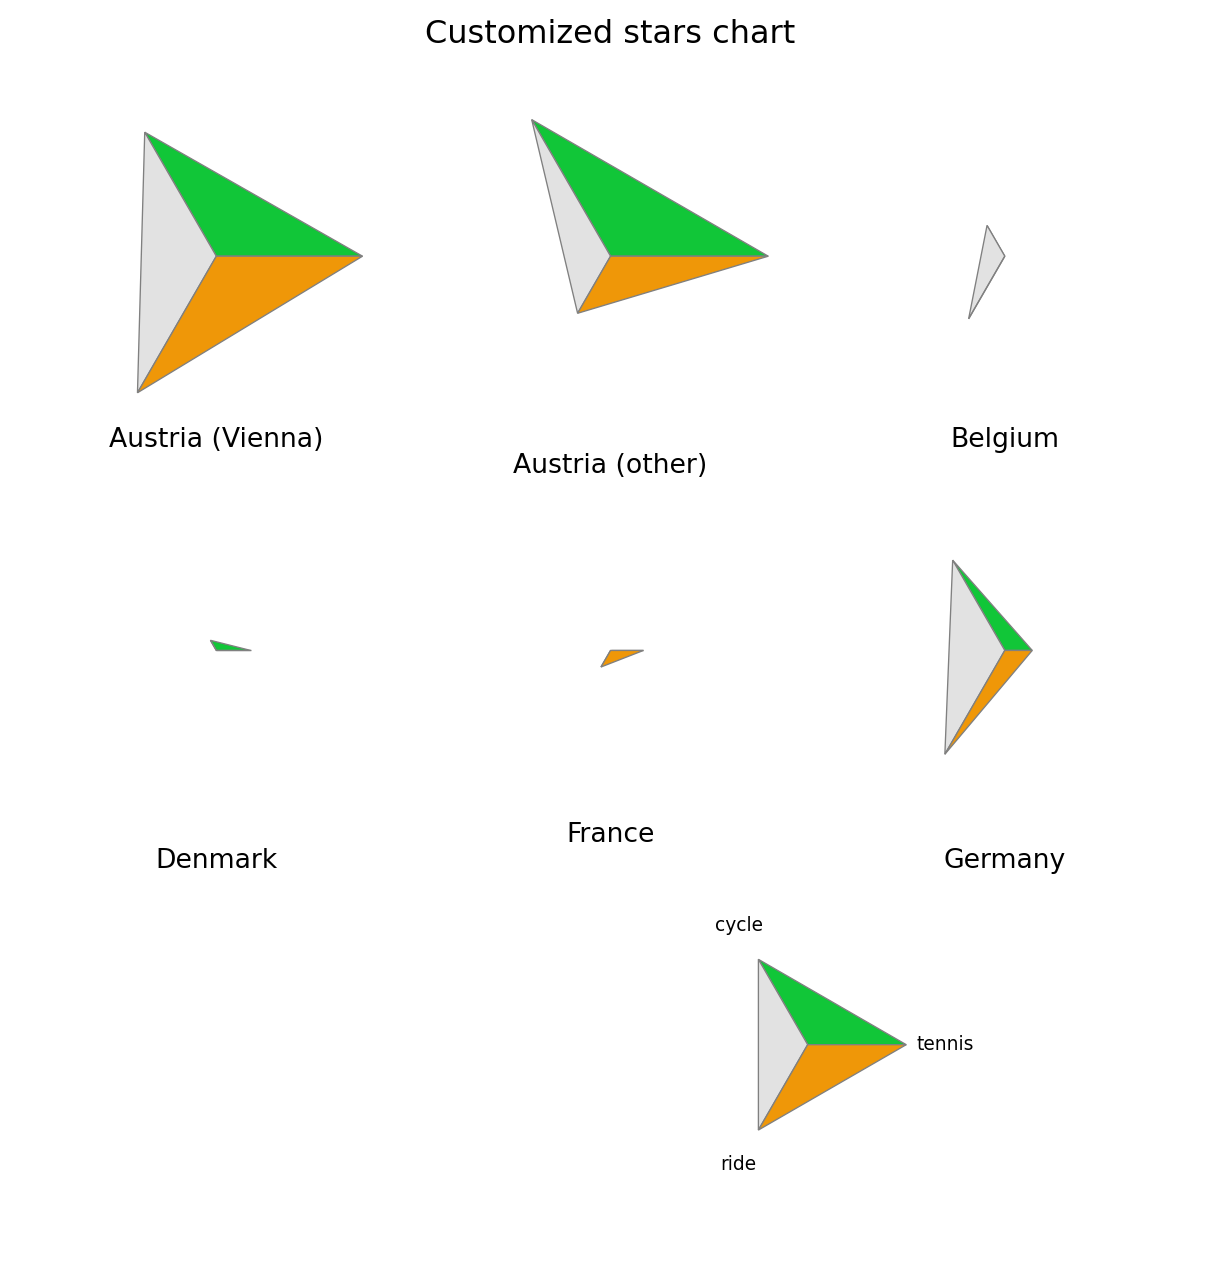
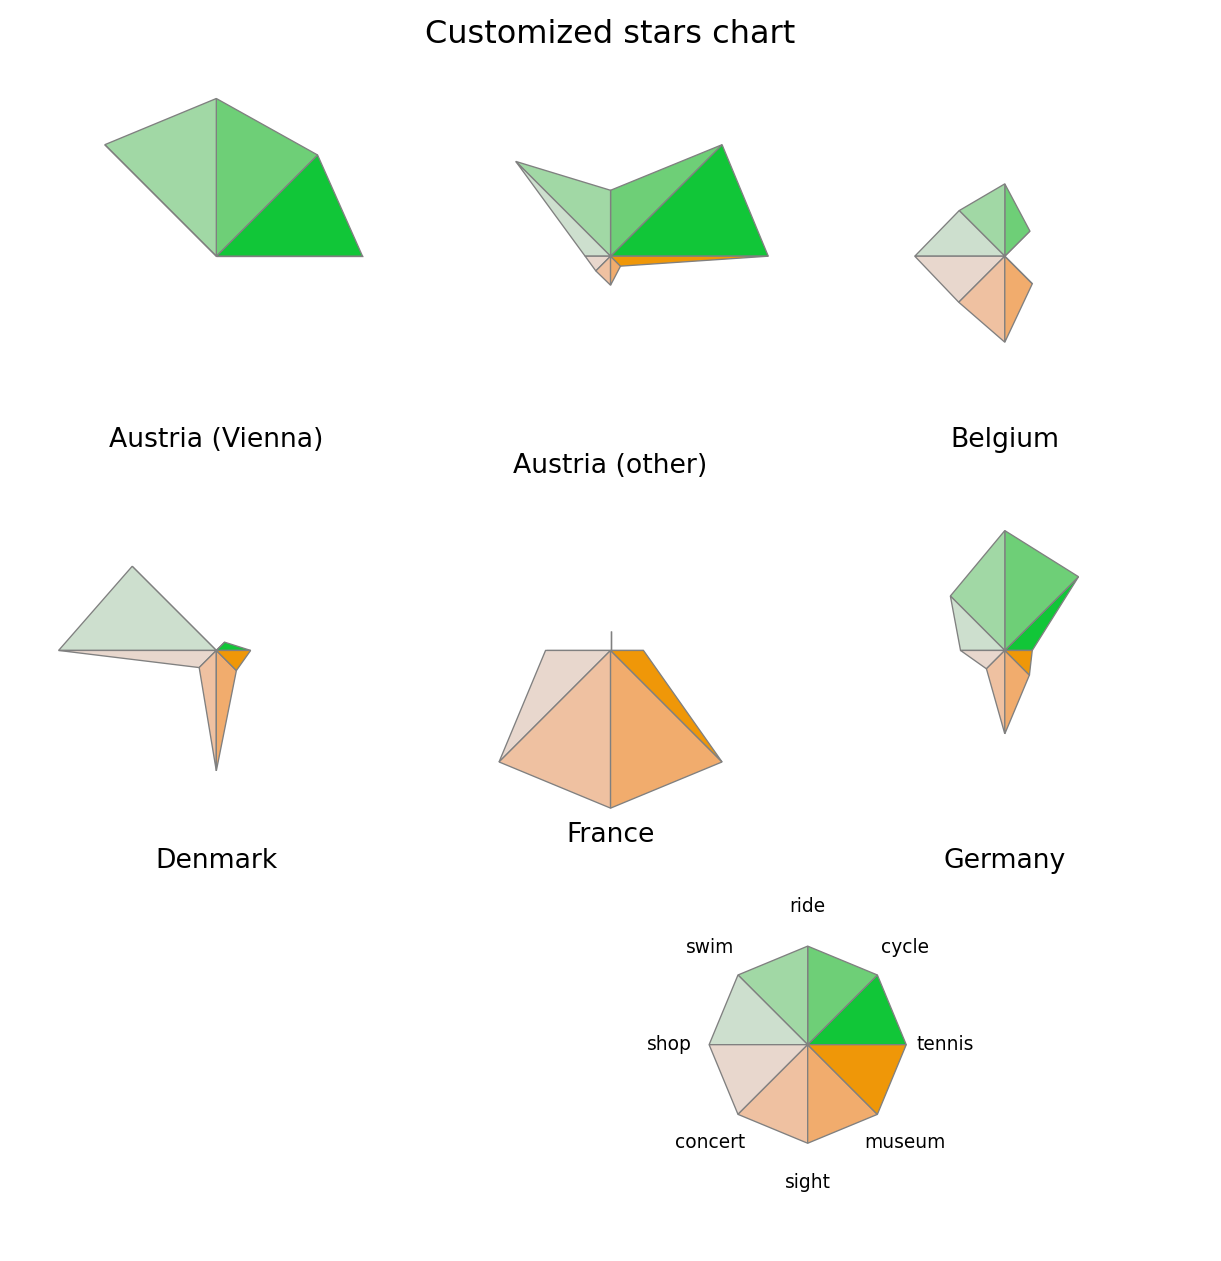
deploy: b0524d81b378237dd85cd1f603b9989d287a8122

diff --git a/man/polarchart.get_demodata.get_demodata.html b/man/polarchart.get_demodata.get_demodata.html
@@ -257,26 +257,56 @@ str or None If <code>None</code> a pandas DataFrame with all available data sets
 </section>
 <section id="examples" class="level3">
 <h3 class="anchored" data-anchor-id="examples">Examples</h3>
-<div id="ed062184" class="cell" data-execution_count="1">
+<div id="540b2be2" class="cell" data-execution_count="1">
 <div class="code-copy-outer-scaffold"><div class="sourceCode cell-code" id="cb1"><pre class="sourceCode python code-with-copy"><code class="sourceCode python"><span id="cb1-1"><a href="#cb1-1" aria-hidden="true" tabindex="-1"></a><span class="co">## Get a DataFrame with all available demo data sets</span></span>
-<span id="cb1-2"><a href="#cb1-2" aria-hidden="true" tabindex="-1"></a>datasets <span class="op">=</span> get_demodata(<span class="va">None</span>)</span>
-<span id="cb1-3"><a href="#cb1-3" aria-hidden="true" tabindex="-1"></a><span class="bu">print</span>(datasets)</span>
-<span id="cb1-4"><a href="#cb1-4" aria-hidden="true" tabindex="-1"></a></span>
-<span id="cb1-5"><a href="#cb1-5" aria-hidden="true" tabindex="-1"></a><span class="co">## Load specific demo data set</span></span>
-<span id="cb1-6"><a href="#cb1-6" aria-hidden="true" tabindex="-1"></a>gsa <span class="op">=</span> get_demodata(<span class="st">"gsa"</span>)</span>
-<span id="cb1-7"><a href="#cb1-7" aria-hidden="true" tabindex="-1"></a><span class="bu">print</span>(gsa)</span></code></pre></div><button title="Copy to Clipboard" class="code-copy-button"><i class="bi"></i></button></div>
-<div class="cell-output cell-output-error">
-<div class="ansi-escaped-output">
-<pre><span class="ansi-red-fg">---------------------------------------------------------------------------</span>
-<span class="ansi-red-fg">NameError</span>                                 Traceback (most recent call last)
-<span class="ansi-cyan-fg">Cell</span><span class="ansi-cyan-fg"> </span><span class="ansi-green-fg">In[1]</span><span class="ansi-green-fg">, line 2</span>
-<span class="ansi-green-fg">      1</span> <span style="font-style:italic;color:rgb(95,135,135)">## Get a DataFrame with all available demo data sets</span>
-<span class="ansi-green-fg">----&gt; </span><span class="ansi-green-fg">2</span> datasets = <span class="ansi-yellow-bg">get_demodata</span>(<span style="font-weight:bold;color:rgb(0,135,0)">None</span>)
-<span class="ansi-green-fg">      3</span> <span style="color:rgb(0,135,0)">print</span>(datasets)
-<span class="ansi-green-fg">      5</span> <span style="font-style:italic;color:rgb(95,135,135)">## Load specific demo data set</span>
+<span id="cb1-2"><a href="#cb1-2" aria-hidden="true" tabindex="-1"></a><span class="im">from</span> polarchart <span class="im">import</span> get_demodata</span>
+<span id="cb1-3"><a href="#cb1-3" aria-hidden="true" tabindex="-1"></a>datasets <span class="op">=</span> get_demodata(<span class="va">None</span>)</span>
+<span id="cb1-4"><a href="#cb1-4" aria-hidden="true" tabindex="-1"></a><span class="bu">print</span>(datasets)</span>
+<span id="cb1-5"><a href="#cb1-5" aria-hidden="true" tabindex="-1"></a></span>
+<span id="cb1-6"><a href="#cb1-6" aria-hidden="true" tabindex="-1"></a><span class="co">## Load specific demo data set</span></span>
+<span id="cb1-7"><a href="#cb1-7" aria-hidden="true" tabindex="-1"></a>gsa <span class="op">=</span> get_demodata(<span class="st">"gsa"</span>)</span>
+<span id="cb1-8"><a href="#cb1-8" aria-hidden="true" tabindex="-1"></a><span class="bu">print</span>(gsa)</span></code></pre></div><button title="Copy to Clipboard" class="code-copy-button"><i class="bi"></i></button></div>
+<div class="cell-output cell-output-stdout">
+<pre><code>     description
+gsa      TODO(R)
+gsa2     TODO(R)
+gsa3     TODO(R)
+gsa4     TODO(R)
+                    tennis     cycle      ride      swim      shop   concert  \
+Country                                                                        
+Austria (Vienna)  0.037961  0.187636  0.013015  0.414317  0.085683  0.016269   
+Austria (other)   0.039891  0.199456  0.005440  0.389846  0.113327  0.025385   
+Belgium           0.013433  0.100000  0.005970  0.317910  0.183582  0.044776   
+Denmark           0.019194  0.080614  0.000000  0.374280  0.257198  0.026871   
+France            0.018957  0.071090  0.001580  0.251185  0.156398  0.085308   
+Germany           0.018039  0.155950  0.009892  0.330812  0.133838  0.027640   
+Hungary           0.024719  0.159551  0.013483  0.485393  0.143820  0.015730   
+Italy             0.028450  0.119488  0.007112  0.254623  0.197724  0.054054   
+Netherlands       0.021763  0.147987  0.001088  0.341676  0.200218  0.028292   
+Spain             0.004049  0.028340  0.000000  0.101215  0.226721  0.072874   
+Sweden            0.012195  0.073171  0.002439  0.390244  0.175610  0.029268   
+Switzerland       0.043478  0.161685  0.012228  0.361413  0.137228  0.031250   
+UK                0.011084  0.056650  0.002463  0.217980  0.253695  0.044335   
+USA               0.005976  0.035857  0.001992  0.135458  0.278884  0.091633   
+other             0.012853  0.079692  0.000000  0.308483  0.231362  0.056555   
 
-<span class="ansi-red-fg">NameError</span>: name 'get_demodata' is not defined</pre>
-</div>
+                     sight    museum  
+Country                               
+Austria (Vienna)  0.163774  0.057484  
+Austria (other)   0.211242  0.067996  
+Belgium           0.304478  0.086567  
+Denmark           0.360845  0.078695  
+France            0.421801  0.175355  
+Germany           0.300262  0.083503  
+Hungary           0.391011  0.159551  
+Italy             0.460882  0.254623  
+Netherlands       0.304679  0.072905  
+Spain             0.813765  0.404858  
+Sweden            0.365854  0.065854  
+Switzerland       0.210598  0.051630  
+UK                0.427340  0.091133  
+USA               0.631474  0.270916  
+other             0.539846  0.228792  </code></pre>
 </div>
 </div>
 

diff --git a/man/polarchart.radar.radar.html b/man/polarchart.radar.radar.html
@@ -318,7 +318,7 @@ Additional keyword arguments, see Details for more information.
 </section>
 <section id="examples" class="level3">
 <h3 class="anchored" data-anchor-id="examples">Examples</h3>
-<div id="e42a6208" class="cell" data-execution_count="1">
+<div id="aad5240a" class="cell" data-execution_count="1">
 <div class="code-copy-outer-scaffold"><div class="sourceCode cell-code" id="cb1"><pre class="sourceCode python code-with-copy"><code class="sourceCode python"><span id="cb1-1"><a href="#cb1-1" aria-hidden="true" tabindex="-1"></a><span class="im">from</span> polarchart <span class="im">import</span> get_demodata</span>
 <span id="cb1-2"><a href="#cb1-2" aria-hidden="true" tabindex="-1"></a><span class="im">from</span> polarchart <span class="im">import</span> radar, stars, spider</span>
 <span id="cb1-3"><a href="#cb1-3" aria-hidden="true" tabindex="-1"></a>gsa <span class="op">=</span> get_demodata(<span class="st">"gsa"</span>)</span>
@@ -326,15 +326,15 @@ Additional keyword arguments, see Details for more information.
 <span id="cb1-5"><a href="#cb1-5" aria-hidden="true" tabindex="-1"></a><span class="co">## </span><span class="al">TODO</span><span class="co">(R): *.iloc[:,1:3] causes erro (only two columns fail?)</span></span>
 <span id="cb1-6"><a href="#cb1-6" aria-hidden="true" tabindex="-1"></a></span>
 <span id="cb1-7"><a href="#cb1-7" aria-hidden="true" tabindex="-1"></a><span class="co">## Default options (first three rows, three columns)</span></span>
-<span id="cb1-8"><a href="#cb1-8" aria-hidden="true" tabindex="-1"></a>radar(gsa.iloc[:<span class="dv">6</span>,:<span class="dv">3</span>], title <span class="op">=</span> <span class="st">"Default radar chart"</span>)</span>
+<span id="cb1-8"><a href="#cb1-8" aria-hidden="true" tabindex="-1"></a>radar(gsa.iloc[:<span class="dv">6</span>,:], title <span class="op">=</span> <span class="st">"Default radar chart"</span>)</span>
 <span id="cb1-9"><a href="#cb1-9" aria-hidden="true" tabindex="-1"></a></span>
 <span id="cb1-10"><a href="#cb1-10" aria-hidden="true" tabindex="-1"></a><span class="co">## Customized: No circles, custom legend position, colors, and figure size.</span></span>
 <span id="cb1-11"><a href="#cb1-11" aria-hidden="true" tabindex="-1"></a><span class="im">from</span> colorspace <span class="im">import</span> diverging_hcl</span>
-<span id="cb1-12"><a href="#cb1-12" aria-hidden="true" tabindex="-1"></a>radar(gsa.iloc[:<span class="dv">6</span>,:<span class="dv">3</span>],</span>
+<span id="cb1-12"><a href="#cb1-12" aria-hidden="true" tabindex="-1"></a>radar(gsa.iloc[:<span class="dv">6</span>,:],</span>
 <span id="cb1-13"><a href="#cb1-13" aria-hidden="true" tabindex="-1"></a>      title   <span class="op">=</span> <span class="st">"Customized radar chart"</span>,</span>
 <span id="cb1-14"><a href="#cb1-14" aria-hidden="true" tabindex="-1"></a>      circles <span class="op">=</span> <span class="va">False</span>,</span>
 <span id="cb1-15"><a href="#cb1-15" aria-hidden="true" tabindex="-1"></a>      legend_position <span class="op">=</span> (<span class="fl">1.5</span>, <span class="dv">2</span>),</span>
-<span id="cb1-16"><a href="#cb1-16" aria-hidden="true" tabindex="-1"></a>      color   <span class="op">=</span> diverging_hcl(<span class="st">"Green-Orange"</span>)(<span class="dv">3</span>),</span>
+<span id="cb1-16"><a href="#cb1-16" aria-hidden="true" tabindex="-1"></a>      color   <span class="op">=</span> diverging_hcl(<span class="st">"Green-Orange"</span>)(gsa.shape[<span class="dv">1</span>]),</span>
 <span id="cb1-17"><a href="#cb1-17" aria-hidden="true" tabindex="-1"></a>      figsize <span class="op">=</span> (<span class="dv">12</span>, <span class="dv">8</span>))</span></code></pre></div><button title="Copy to Clipboard" class="code-copy-button"><i class="bi"></i></button></div>
 <div class="cell-output cell-output-stdout">
 <pre><code>                    tennis     cycle      ride      swim      shop   concert  \

diff --git a/man/polarchart.plottypes.spider.html b/man/polarchart.plottypes.spider.html
@@ -318,22 +318,22 @@ Additional keyword arguments, see Details for more information.
 </section>
 <section id="examples" class="level3">
 <h3 class="anchored" data-anchor-id="examples">Examples</h3>
-<div id="f4458092" class="cell" data-execution_count="1">
+<div id="8a4fbde3" class="cell" data-execution_count="1">
 <div class="code-copy-outer-scaffold"><div class="sourceCode cell-code" id="cb1"><pre class="sourceCode python code-with-copy"><code class="sourceCode python"><span id="cb1-1"><a href="#cb1-1" aria-hidden="true" tabindex="-1"></a><span class="im">from</span> polarchart <span class="im">import</span> get_demodata</span>
 <span id="cb1-2"><a href="#cb1-2" aria-hidden="true" tabindex="-1"></a><span class="im">from</span> polarchart <span class="im">import</span> radar, spider, spider</span>
 <span id="cb1-3"><a href="#cb1-3" aria-hidden="true" tabindex="-1"></a>gsa <span class="op">=</span> get_demodata(<span class="st">"gsa"</span>)</span>
 <span id="cb1-4"><a href="#cb1-4" aria-hidden="true" tabindex="-1"></a><span class="bu">print</span>(gsa.head())</span>
 <span id="cb1-5"><a href="#cb1-5" aria-hidden="true" tabindex="-1"></a></span>
 <span id="cb1-6"><a href="#cb1-6" aria-hidden="true" tabindex="-1"></a><span class="co">## Default options (first three rows, three columns)</span></span>
-<span id="cb1-7"><a href="#cb1-7" aria-hidden="true" tabindex="-1"></a>spider(gsa.iloc[:<span class="dv">6</span>,:<span class="dv">3</span>], title <span class="op">=</span> <span class="st">"Default spider chart"</span>)</span>
+<span id="cb1-7"><a href="#cb1-7" aria-hidden="true" tabindex="-1"></a>spider(gsa.iloc[:<span class="dv">6</span>,:], title <span class="op">=</span> <span class="st">"Default spider chart"</span>)</span>
 <span id="cb1-8"><a href="#cb1-8" aria-hidden="true" tabindex="-1"></a></span>
 <span id="cb1-9"><a href="#cb1-9" aria-hidden="true" tabindex="-1"></a><span class="co">## Customized: No circles, custom legend position, colors, and figure size.</span></span>
 <span id="cb1-10"><a href="#cb1-10" aria-hidden="true" tabindex="-1"></a><span class="im">from</span> colorspace <span class="im">import</span> diverging_hcl</span>
-<span id="cb1-11"><a href="#cb1-11" aria-hidden="true" tabindex="-1"></a>spider(gsa.iloc[:<span class="dv">6</span>,:<span class="dv">3</span>],</span>
+<span id="cb1-11"><a href="#cb1-11" aria-hidden="true" tabindex="-1"></a>spider(gsa.iloc[:<span class="dv">6</span>,:],</span>
 <span id="cb1-12"><a href="#cb1-12" aria-hidden="true" tabindex="-1"></a>       title   <span class="op">=</span> <span class="st">"Customized spider chart"</span>,</span>
 <span id="cb1-13"><a href="#cb1-13" aria-hidden="true" tabindex="-1"></a>       circles <span class="op">=</span> <span class="va">False</span>,</span>
 <span id="cb1-14"><a href="#cb1-14" aria-hidden="true" tabindex="-1"></a>       legend_position <span class="op">=</span> (<span class="fl">1.5</span>, <span class="dv">2</span>),</span>
-<span id="cb1-15"><a href="#cb1-15" aria-hidden="true" tabindex="-1"></a>       color   <span class="op">=</span> diverging_hcl(<span class="st">"Green-Orange"</span>)(<span class="dv">3</span>),</span>
+<span id="cb1-15"><a href="#cb1-15" aria-hidden="true" tabindex="-1"></a>       color   <span class="op">=</span> diverging_hcl(<span class="st">"Green-Orange"</span>)(gsa.shape[<span class="dv">1</span>]),</span>
 <span id="cb1-16"><a href="#cb1-16" aria-hidden="true" tabindex="-1"></a>       figsize <span class="op">=</span> (<span class="dv">12</span>, <span class="dv">8</span>))</span></code></pre></div><button title="Copy to Clipboard" class="code-copy-button"><i class="bi"></i></button></div>
 <div class="cell-output cell-output-stdout">
 <pre><code>                    tennis     cycle      ride      swim      shop   concert  \

diff --git a/man/polarchart.plottypes.stars.html b/man/polarchart.plottypes.stars.html
@@ -318,22 +318,22 @@ Additional keyword arguments, see Details for more information.
 </section>
 <section id="examples" class="level3">
 <h3 class="anchored" data-anchor-id="examples">Examples</h3>
-<div id="a51c904f" class="cell" data-execution_count="1">
+<div id="a72b472f" class="cell" data-execution_count="1">
 <div class="code-copy-outer-scaffold"><div class="sourceCode cell-code" id="cb1"><pre class="sourceCode python code-with-copy"><code class="sourceCode python"><span id="cb1-1"><a href="#cb1-1" aria-hidden="true" tabindex="-1"></a><span class="im">from</span> polarchart <span class="im">import</span> get_demodata</span>
 <span id="cb1-2"><a href="#cb1-2" aria-hidden="true" tabindex="-1"></a><span class="im">from</span> polarchart <span class="im">import</span> radar, stars, spider</span>
 <span id="cb1-3"><a href="#cb1-3" aria-hidden="true" tabindex="-1"></a>gsa <span class="op">=</span> get_demodata(<span class="st">"gsa"</span>)</span>
 <span id="cb1-4"><a href="#cb1-4" aria-hidden="true" tabindex="-1"></a><span class="bu">print</span>(gsa.head())</span>
 <span id="cb1-5"><a href="#cb1-5" aria-hidden="true" tabindex="-1"></a></span>
 <span id="cb1-6"><a href="#cb1-6" aria-hidden="true" tabindex="-1"></a><span class="co">## Default options (first three rows, three columns)</span></span>
-<span id="cb1-7"><a href="#cb1-7" aria-hidden="true" tabindex="-1"></a>stars(gsa.iloc[:<span class="dv">6</span>,:<span class="dv">3</span>], title <span class="op">=</span> <span class="st">"Default stars chart"</span>)</span>
+<span id="cb1-7"><a href="#cb1-7" aria-hidden="true" tabindex="-1"></a>stars(gsa.iloc[:<span class="dv">6</span>,:], title <span class="op">=</span> <span class="st">"Default stars chart"</span>)</span>
 <span id="cb1-8"><a href="#cb1-8" aria-hidden="true" tabindex="-1"></a></span>
 <span id="cb1-9"><a href="#cb1-9" aria-hidden="true" tabindex="-1"></a><span class="co">## Customized: No circles, custom legend position, colors, and figure size.</span></span>
 <span id="cb1-10"><a href="#cb1-10" aria-hidden="true" tabindex="-1"></a><span class="im">from</span> colorspace <span class="im">import</span> diverging_hcl</span>
-<span id="cb1-11"><a href="#cb1-11" aria-hidden="true" tabindex="-1"></a>stars(gsa.iloc[:<span class="dv">6</span>,:<span class="dv">3</span>],</span>
+<span id="cb1-11"><a href="#cb1-11" aria-hidden="true" tabindex="-1"></a>stars(gsa.iloc[:<span class="dv">6</span>,:],</span>
 <span id="cb1-12"><a href="#cb1-12" aria-hidden="true" tabindex="-1"></a>      title   <span class="op">=</span> <span class="st">"Customized stars chart"</span>,</span>
 <span id="cb1-13"><a href="#cb1-13" aria-hidden="true" tabindex="-1"></a>      circles <span class="op">=</span> <span class="va">False</span>,</span>
 <span id="cb1-14"><a href="#cb1-14" aria-hidden="true" tabindex="-1"></a>      legend_position <span class="op">=</span> (<span class="fl">1.5</span>, <span class="dv">2</span>),</span>
-<span id="cb1-15"><a href="#cb1-15" aria-hidden="true" tabindex="-1"></a>      color   <span class="op">=</span> diverging_hcl(<span class="st">"Green-Orange"</span>)(<span class="dv">3</span>),</span>
+<span id="cb1-15"><a href="#cb1-15" aria-hidden="true" tabindex="-1"></a>      color   <span class="op">=</span> diverging_hcl(<span class="st">"Green-Orange"</span>)(gsa.shape[<span class="dv">1</span>]),</span>
 <span id="cb1-16"><a href="#cb1-16" aria-hidden="true" tabindex="-1"></a>      figsize <span class="op">=</span> (<span class="dv">12</span>, <span class="dv">8</span>))</span></code></pre></div><button title="Copy to Clipboard" class="code-copy-button"><i class="bi"></i></button></div>
 <div class="cell-output cell-output-stdout">
 <pre><code>                    tennis     cycle      ride      swim      shop   concert  \

diff --git a/index.html b/index.html
@@ -237,7 +237,7 @@ pre > code.sourceCode > span > a:first-child::before { text-decoration: underlin
 </ul>
 <section id="radar-starspider-plot-example" class="level1">
 <h1>Radar (star/spider) plot example</h1>
-<div id="fb37f0e7" class="cell" data-execution_count="1">
+<div id="37dda1ac" class="cell" data-execution_count="1">
 <div class="code-copy-outer-scaffold"><div class="sourceCode cell-code" id="cb1"><pre class="sourceCode python code-with-copy"><code class="sourceCode python"><span id="cb1-1"><a href="#cb1-1" aria-hidden="true" tabindex="-1"></a><span class="im">from</span> polarchart <span class="im">import</span> get_demodata, radar</span>
 <span id="cb1-2"><a href="#cb1-2" aria-hidden="true" tabindex="-1"></a></span>
 <span id="cb1-3"><a href="#cb1-3" aria-hidden="true" tabindex="-1"></a><span class="co"># Loading data set shipped with the package; pandas DataFrame</span></span>
@@ -257,7 +257,7 @@ pre > code.sourceCode > span > a:first-child::before { text-decoration: underlin
 </section>
 <section id="spine-plot" class="level1">
 <h1>Spine plot</h1>
-<div id="7556d353" class="cell" data-execution_count="2">
+<div id="342f40e8" class="cell" data-execution_count="2">
 <div class="code-copy-outer-scaffold"><div class="sourceCode cell-code" id="cb2"><pre class="sourceCode python code-with-copy"><code class="sourceCode python"><span id="cb2-1"><a href="#cb2-1" aria-hidden="true" tabindex="-1"></a><span class="im">from</span> pandas <span class="im">import</span> Series, DataFrame</span>
 <span id="cb2-2"><a href="#cb2-2" aria-hidden="true" tabindex="-1"></a><span class="im">from</span> polarchart <span class="im">import</span> spineplot</span>
 <span id="cb2-3"><a href="#cb2-3" aria-hidden="true" tabindex="-1"></a></span>

diff --git a/man/polarchart.spineplot.spineplot.html b/man/polarchart.spineplot.spineplot.html
@@ -300,7 +300,7 @@ Additional keyword arguments, see Details for more information.
 </section>
 <section id="examples" class="level3">
 <h3 class="anchored" data-anchor-id="examples">Examples</h3>
-<div id="ae8aa1cf" class="cell" data-execution_count="1">
+<div id="58511b55" class="cell" data-execution_count="1">
 <div class="code-copy-outer-scaffold"><div class="sourceCode cell-code" id="cb1"><pre class="sourceCode python code-with-copy"><code class="sourceCode python"><span id="cb1-1"><a href="#cb1-1" aria-hidden="true" tabindex="-1"></a><span class="im">from</span> numpy <span class="im">import</span> repeat</span>
 <span id="cb1-2"><a href="#cb1-2" aria-hidden="true" tabindex="-1"></a><span class="im">from</span> pandas <span class="im">import</span> DataFrame, Series</span>
 <span id="cb1-3"><a href="#cb1-3" aria-hidden="true" tabindex="-1"></a><span class="im">from</span> polarchart <span class="im">import</span> spineplot</span>
